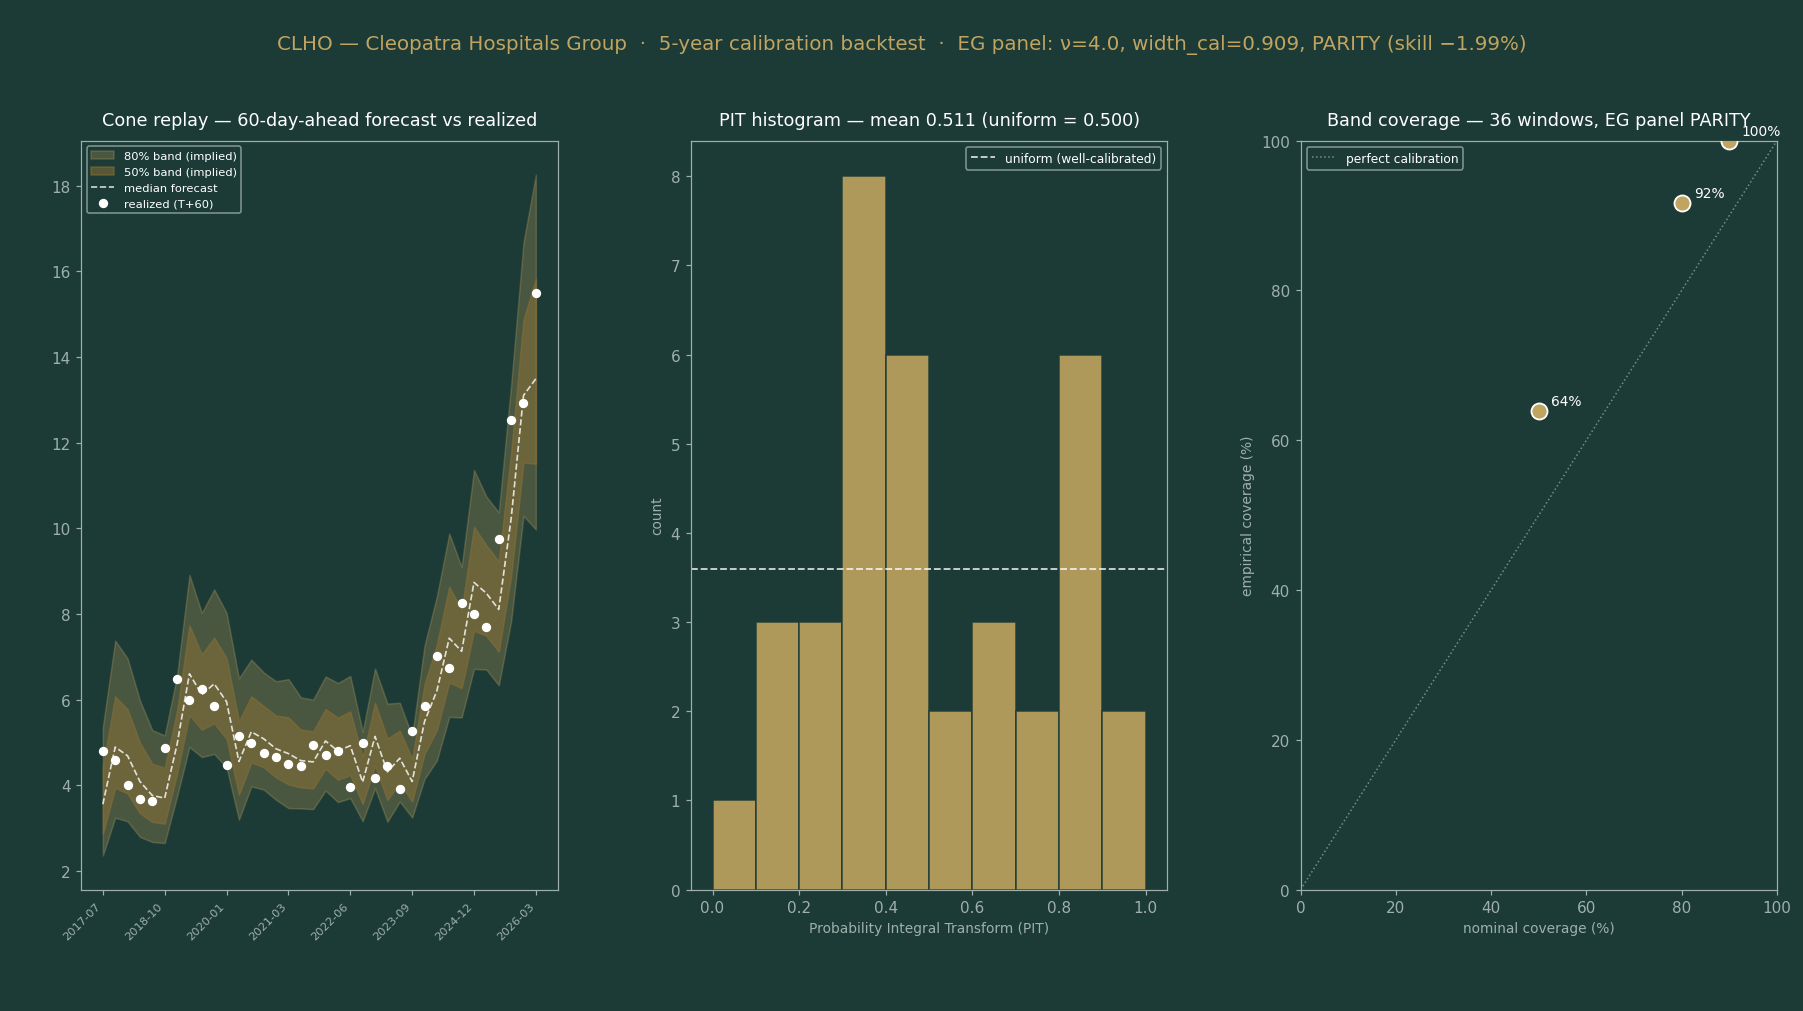
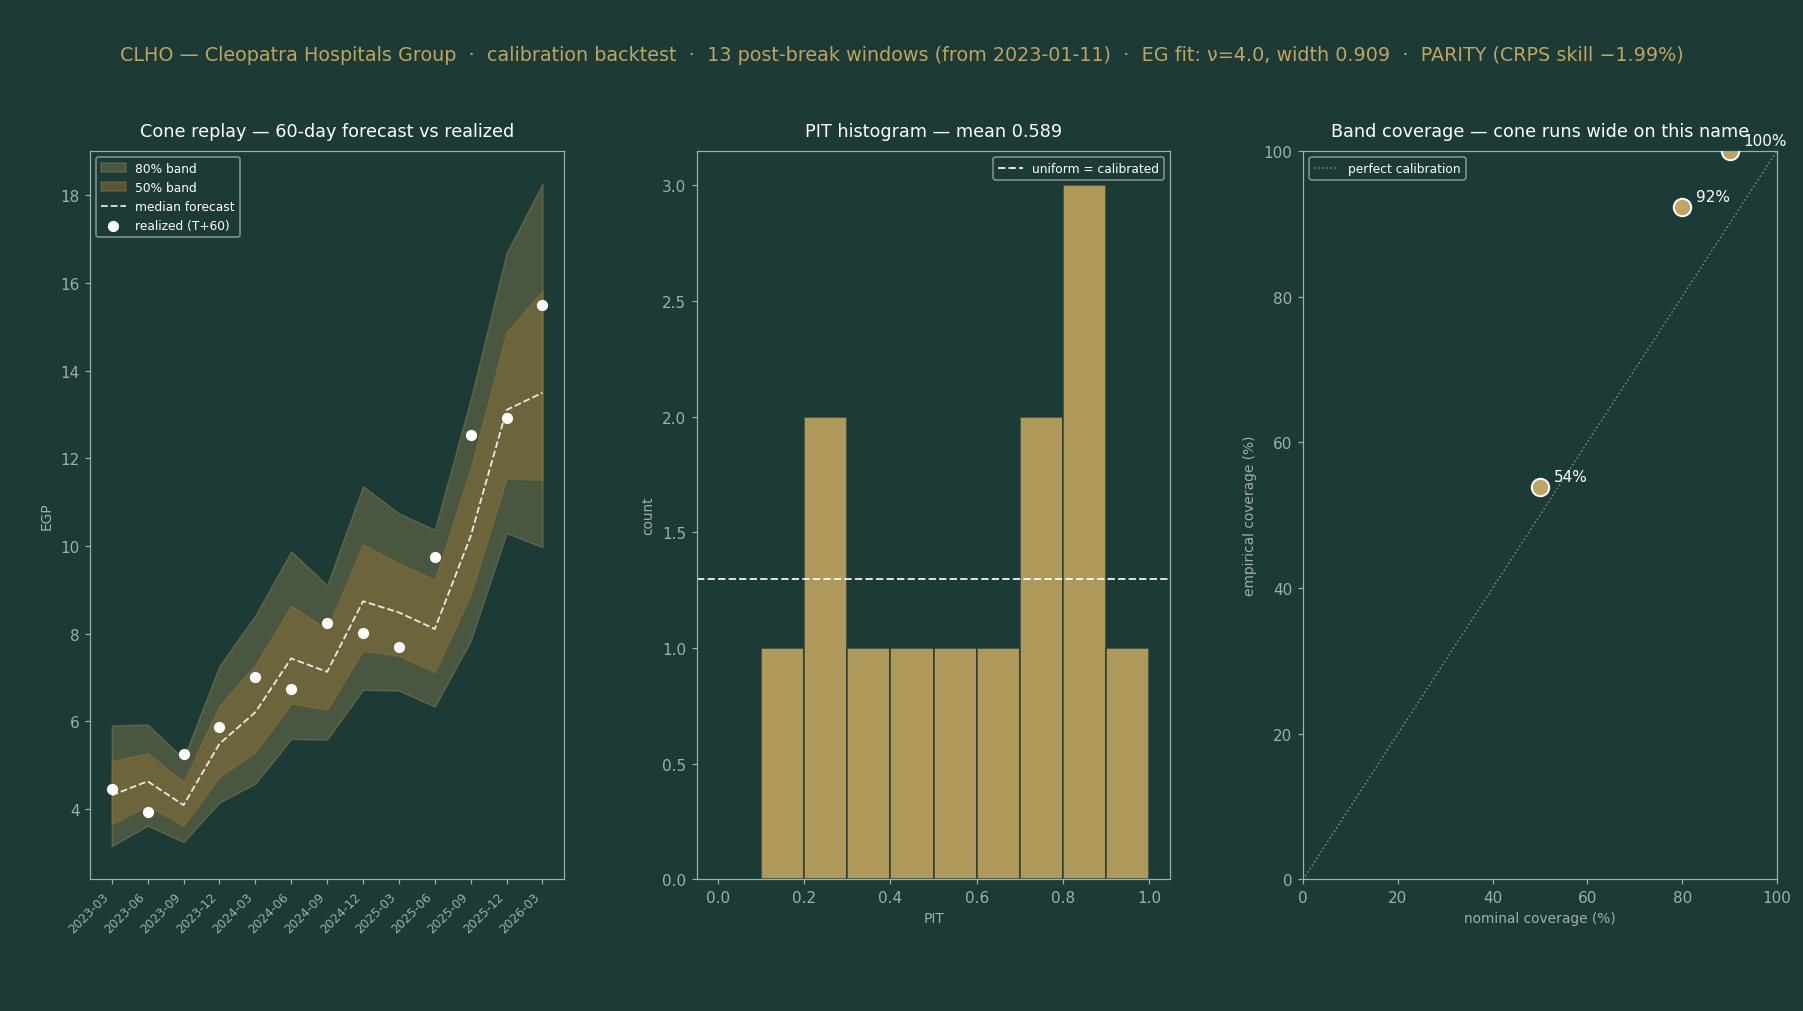
FIX: restore Egypt breaks= (I deleted it in 805a41d) + correct CLHO calibration to the 13 break-filtered windows
TWO ERRORS, BOTH MINE, BOTH FROM TODAY.

1. REGRESSION IN 805a41d: my str.replace() anchor when rewriting EGYPT's
   fit_meta spanned the line below it and silently deleted
     breaks=["2016-11-03", "2022-03-21", "2023-01-11"]
   apply_breaks() reads profile.breaks and is a documented no-op when the
   field is absent, so Egypt's break filter was OFF for any FUTURE refit --
   including the 03:00 UTC daily cron. The committed fit itself is UNAFFECTED:
   PR #4 ran on 64062fd, before the deletion, so nu=4.0 / cal=0.909 / CLHO
   PARITY -0.0199 / 377 windows were all computed WITH the filter correctly
   applied. The damage was purely forward-looking. Restored; every other
   market's breaks field verified intact (Egypt-only).

2. WRONG WINDOW COUNT PUBLISHED: the site said CLHO was scored on 36 windows
   (full history, 2017-2026) with coverage 0.64/0.92/1.00 and PIT 0.511.
   The engine actually scores 13 POST-BREAK windows (from 2023-01-11):
   coverage 0.54/0.92/1.00, PIT 0.589. I had both files locally
   (clho_backtest_all.csv = 36, clho_backtest_rows.csv = 13) and used the
   wrong one. coverage.js even read "36 post-break windows", which is a
   contradiction on its face. Calibration figure rebuilt from the 13 correct
   windows; data.js ledger note and coverage.js thesis restated.

Also retracting a claim I made in chat: the panel CSVs carrying pre-break
history is BY DESIGN, not a bug -- panel_refresh.py line 259 applies
[…]

diff --git a/assets/data.js b/assets/data.js
@@ -1990,7 +1990,7 @@ const LEDGER = [
   { instrument:"CLHO", asset_class:"equity", anchor_date:"2026-07-12", anchor_price:16.31, ccy:"EGP",
     horizon_label:"T+20", grade_date:"2026-08-09", cycle_no:1, reanchor_from:null,
     anchor_vol:0.3548, horizon_days:20,
-    note:"PARITY on the name\u2019s own fitted verdict, committed to engine/fitted_configs.json 13-Jul-2026 (PR #4): CLHO is a constituent of the 29-name Egypt panel (fitted nu=4.0, cone width 0.909; panel-level verdict PASS, scale-normalized CRPS skill +2.6%%, 90%% CI [+1.7%%, +3.6%%]). Name-level Step-0: 36 non-overlapping 60-session windows, 2017\u20132026, scored from the market\u2019s last structural break (2023-01-11) forward. Scale-normalized CRPS skill -2.0%% against a CARRY-ANCHORED random-walk benchmark \u2014 PARITY, meaning the cone is calibrated and market-panel validated, but this specific name shows no demonstrated single-name edge over the carry-anchored benchmark; this is the modal EGX verdict (15 of 29 panel names are PARITY, including names with skill as low as -4.4%%), not a failure. Coverage 50/80/90%% = 0.64/0.92/1.00; mean PIT 0.51 \u2014 well-centred. Carry = CBE main rate 19.50%% less CLHO\u2019s trailing dividend yield; the Egypt profile runs CARRY-ONLY (no signal, ablated off on evidence). Adding CLHO to the panel also moved CCAP\u2019s own verdict from PASS to BOUNDARY(PARITY-flagged) \u2014 disclosed for transparency, reviewed and merged by the analyst before this fit was committed. The cone is a 3-month object and is NEVER blended with the 12-month fundamental anchor. See study \u00a73 and the Calibration Ledger.",
+    note:"PARITY on the name\u2019s own fitted verdict, committed to engine/fitted_configs.json 13-Jul-2026 (PR #4): CLHO is a constituent of the 29-name Egypt panel (fitted nu=4.0, cone width 0.909; panel-level verdict PASS, scale-normalized CRPS skill +2.6%%, 90%% CI [+1.7%%, +3.6%%]). Name-level Step-0: 13 non-overlapping 60-session windows, scored from the market\u2019s last structural break (2023-01-11) forward \u2014 23 pre-break origins dropped, because Egypt devalued in Jan-2023 and calibrating on post-break windows only beats using all history out-of-sample, which is the adopted production rule. Scale-normalized CRPS skill -2.0%% against a CARRY-ANCHORED random-walk benchmark \u2014 PARITY, meaning the cone is calibrated and market-panel validated, but this specific name shows no demonstrated single-name edge over the carry-anchored benchmark; this is the modal EGX verdict (15 of 29 panel names are PARITY, including names with skill as low as -4.4%%), not a failure. Coverage 50/80/90%% = 0.54/0.92/1.00; mean PIT 0.59. The 90%% band contained every outcome, so the cone runs WIDE on this name \u2014 over-coverage, not mis-centring, which is exactly why it scores PARITY rather than PASS. Carry = CBE main rate 19.50%% less CLHO\u2019s trailing dividend yield; the Egypt profile runs CARRY-ONLY (no signal, ablated off on evidence). Adding CLHO to the panel also moved CCAP\u2019s own verdict from PASS to BOUNDARY(PARITY-flagged) \u2014 disclosed for transparency, reviewed and merged by the analyst before this fit was committed. The cone is a 3-month object and is NEVER blended with the 12-month fundamental anchor. See study \u00a73 and the Calibration Ledger.",
     p5:13.59, p25:15.46, p50:16.54, p75:17.71, p95:20.17,
     touch:{ "+5":60, "+10":35, "+15":20, "+20":12, "-5":50, "-10":25 },
     realized_close:null, realized_high:null, realized_low:null,
@@ -2000,7 +2000,7 @@ const LEDGER = [
   { instrument:"CLHO", asset_class:"equity", anchor_date:"2026-07-12", anchor_price:16.31, ccy:"EGP",
     horizon_label:"T+60", grade_date:"2026-10-04", cycle_no:1, reanchor_from:null,
     anchor_vol:0.3548, horizon_days:60,
-    note:"PARITY on the name\u2019s own fitted verdict, committed to engine/fitted_configs.json 13-Jul-2026 (PR #4): CLHO is a constituent of the 29-name Egypt panel (fitted nu=4.0, cone width 0.909; panel-level verdict PASS, scale-normalized CRPS skill +2.6%%, 90%% CI [+1.7%%, +3.6%%]). Name-level Step-0: 36 non-overlapping 60-session windows, 2017\u20132026, scored from the market\u2019s last structural break (2023-01-11) forward. Scale-normalized CRPS skill -2.0%% against a CARRY-ANCHORED random-walk benchmark \u2014 PARITY, meaning the cone is calibrated and market-panel validated, but this specific name shows no demonstrated single-name edge over the carry-anchored benchmark; this is the modal EGX verdict (15 of 29 panel names are PARITY, including names with skill as low as -4.4%%), not a failure. Coverage 50/80/90%% = 0.64/0.92/1.00; mean PIT 0.51 \u2014 well-centred. Carry = CBE main rate 19.50%% less CLHO\u2019s trailing dividend yield; the Egypt profile runs CARRY-ONLY (no signal, ablated off on evidence). Adding CLHO to the panel also moved CCAP\u2019s own verdict from PASS to BOUNDARY(PARITY-flagged) \u2014 disclosed for transparency, reviewed and merged by the analyst before this fit was committed. The cone is a 3-month object and is NEVER blended with the 12-month fundamental anchor. See study \u00a73 and the Calibration Ledger.",
+    note:"PARITY on the name\u2019s own fitted verdict, committed to engine/fitted_configs.json 13-Jul-2026 (PR #4): CLHO is a constituent of the 29-name Egypt panel (fitted nu=4.0, cone width 0.909; panel-level verdict PASS, scale-normalized CRPS skill +2.6%%, 90%% CI [+1.7%%, +3.6%%]). Name-level Step-0: 13 non-overlapping 60-session windows, scored from the market\u2019s last structural break (2023-01-11) forward \u2014 23 pre-break origins dropped, because Egypt devalued in Jan-2023 and calibrating on post-break windows only beats using all history out-of-sample, which is the adopted production rule. Scale-normalized CRPS skill -2.0%% against a CARRY-ANCHORED random-walk benchmark \u2014 PARITY, meaning the cone is calibrated and market-panel validated, but this specific name shows no demonstrated single-name edge over the carry-anchored benchmark; this is the modal EGX verdict (15 of 29 panel names are PARITY, including names with skill as low as -4.4%%), not a failure. Coverage 50/80/90%% = 0.54/0.92/1.00; mean PIT 0.59. The 90%% band contained every outcome, so the cone runs WIDE on this name \u2014 over-coverage, not mis-centring, which is exactly why it scores PARITY rather than PASS. Carry = CBE main rate 19.50%% less CLHO\u2019s trailing dividend yield; the Egypt profile runs CARRY-ONLY (no signal, ablated off on evidence). Adding CLHO to the panel also moved CCAP\u2019s own verdict from PASS to BOUNDARY(PARITY-flagged) \u2014 disclosed for transparency, reviewed and merged by the analyst before this fit was committed. The cone is a 3-month object and is NEVER blended with the 12-month fundamental anchor. See study \u00a73 and the Calibration Ledger.",
     p5:12.12, p25:15.13, p50:17.02, p75:19.15, p95:23.83,
     touch:{ "+5":79, "+10":62, "+15":47, "+20":36, "-5":65, "-10":43 },
     realized_close:null, realized_high:null, realized_low:null,

diff --git a/assets/coverage.js b/assets/coverage.js
@@ -7,7 +7,7 @@
 'use strict';
 
 const COVERAGE_EN = [
-  {tk:"CLHO",   code:"EGX:CLHO",   name:"Cleopatra Hospitals Group",      sector:"Healthcare",              sub:"Egypt\u2019s largest private hospital group, 7 hospitals + 5 polyclinics + Bedaya IVF, Greater Cairo", country:"Egypt",     cur:"EGP", fair:"9.21",    price:"16.31",    gap:"\u221244%",  date:"13 Jul 2026", url:"clho.html",    thesis:"A genuine growth story priced as if it were already a takeout. Bed capacity is expanding 50% by 2027 (880\u21921,320) and revenue is rebuilt bottom-up from disclosed volumes and prices \u2014 not assumed \u2014 reaching 2.07\u00d7 FY2028E vs FY2025, almost exactly management\u2019s own \u201cmore than double by 2028\u201d guidance. But at Egypt\u2019s cost of capital that growth is worth EGP 9.21 weighted-central, against a spot of 16.31. THIS RANGE WAS REBUILT UNDER EXTERNAL AUDIT: the first version capitalised terminal value directly, which silently required a 34.2% return on capital forever \u2014 far above anything CLHO has ever earned \u2014 and deducted minority interests at book value instead of what the minority stake is actually worth. Both are now fixed: terminal reinvestment is forced to what 5% growth actually costs at an 18% return (inside CLHO\u2019s realized 17\u201323% range), and the minority stake is valued as its own mini-SOTP on Cairo Specialized Hospital\u2019s disclosed economics. THE COST OF DEBT IS AUDITED, NOT ASSUMED: CLHO\u2019s own accounts show a 28.90% contractual loan rate against a 28.25% CBE corridor \u2014 a +65bp spread confirmed at two separate year-ends \u2014 and the debt book is 100% EGP with zero foreign-currency exposure. THE DISCOUNT RATE SLIDES: 25.15% today easing to a norm-built 17.87% terminal on the CBE\u2019s own calendar, with the sovereign default premium netted out of the risk-free rate rather than double-counted. THE GAP ITSELF IS THE FINDING: even the single most generous fundamental case (the DCF bull) reaches only 8.12, barely half of spot \u2014 the market is pricing something closer to a strategic-review or per-bed transaction outcome than standalone cash-flow generation, and this study cannot resolve which one is right. Flagged but not in the base case: a developing 2026-27 El Ni\u00f1o (96% NOAA probability) threatens a multi-year food-inflation shock that would keep the CBE from cutting at all. \u00a73 Monte Carlo: PARITY on this name\u2019s own fitted verdict (36 post-break windows, CRPS skill -2.0% vs a carry-anchored random walk) \u2014 calibrated and panel-validated, with no demonstrated single-name edge, which is the modal result across the Egypt panel."},
+  {tk:"CLHO",   code:"EGX:CLHO",   name:"Cleopatra Hospitals Group",      sector:"Healthcare",              sub:"Egypt\u2019s largest private hospital group, 7 hospitals + 5 polyclinics + Bedaya IVF, Greater Cairo", country:"Egypt",     cur:"EGP", fair:"9.21",    price:"16.31",    gap:"\u221244%",  date:"13 Jul 2026", url:"clho.html",    thesis:"A genuine growth story priced as if it were already a takeout. Bed capacity is expanding 50% by 2027 (880\u21921,320) and revenue is rebuilt bottom-up from disclosed volumes and prices \u2014 not assumed \u2014 reaching 2.07\u00d7 FY2028E vs FY2025, almost exactly management\u2019s own \u201cmore than double by 2028\u201d guidance. But at Egypt\u2019s cost of capital that growth is worth EGP 9.21 weighted-central, against a spot of 16.31. THIS RANGE WAS REBUILT UNDER EXTERNAL AUDIT: the first version capitalised terminal value directly, which silently required a 34.2% return on capital forever \u2014 far above anything CLHO has ever earned \u2014 and deducted minority interests at book value instead of what the minority stake is actually worth. Both are now fixed: terminal reinvestment is forced to what 5% growth actually costs at an 18% return (inside CLHO\u2019s realized 17\u201323% range), and the minority stake is valued as its own mini-SOTP on Cairo Specialized Hospital\u2019s disclosed economics. THE COST OF DEBT IS AUDITED, NOT ASSUMED: CLHO\u2019s own accounts show a 28.90% contractual loan rate against a 28.25% CBE corridor \u2014 a +65bp spread confirmed at two separate year-ends \u2014 and the debt book is 100% EGP with zero foreign-currency exposure. THE DISCOUNT RATE SLIDES: 25.15% today easing to a norm-built 17.87% terminal on the CBE\u2019s own calendar, with the sovereign default premium netted out of the risk-free rate rather than double-counted. THE GAP ITSELF IS THE FINDING: even the single most generous fundamental case (the DCF bull) reaches only 8.12, barely half of spot \u2014 the market is pricing something closer to a strategic-review or per-bed transaction outcome than standalone cash-flow generation, and this study cannot resolve which one is right. Flagged but not in the base case: a developing 2026-27 El Ni\u00f1o (96% NOAA probability) threatens a multi-year food-inflation shock that would keep the CBE from cutting at all. \u00a73 Monte Carlo: PARITY on this name\u2019s own fitted verdict (13 post-break windows, CRPS skill -2.0% vs a carry-anchored random walk) \u2014 calibrated and panel-validated, with no demonstrated single-name edge, which is the modal result across the Egypt panel."},
   {tk:"RMDA",   code:"EGX:RMDA",    name:"Rameda Pharmaceuticals",         sector:"Healthcare",              sub:"Branded-generic pharma manufacturer, 3 plants in 6th of October", country:"Egypt",     cur:"EGP", fair:"2.77",    price:"5.00",    gap:"\u221245%",  date:"13 Jul 2026", url:"rmda.html",    thesis:"A compounding pharmaceutical engine bolted to a punishing Egyptian cost of capital \u2014 and the two lenses disagree so violently that the disagreement IS the finding. Discounted at Egypt\u2019s SOURCED cost of capital the cash flows are worth EGP 1.73; priced on its own trading multiples the same engine is worth 3.65\u20134.40. The market pays 5.00. WHY REVENUE DOUBLED, AND WHY IT WILL NOT DOUBLE AGAIN: FY23\u2192FY25 revenue went +113%, but that was three ONE-OFFS stacked on a real launch engine \u2014 the EDA pricing catch-up (now ~82% complete), a shortage-driven volume spike (2Q25 private units +56% because rivals could not supply), and export resumption from literally ZERO (Iraq\u2019s suspension made FY24 exports nil). The 1Q26 print proves the regime is over: revenue +23%, but volumes ex-toll only +7% and PRIVATE VOLUMES \u22125%, with management saying growth came with limited reliance on pricing. So the forward path tapers to +9%, it does not re-double. THE COST OF DEBT WAS AUDITED, NOT ASSUMED: the book is 100% EGP (all 11 bank facilities in EGP; the FX exposure sits in import payables, not debt \u2014 there is no cheap-dollar blend to be had), and the rate Rameda actually PAYS is 24.0% annualised in 1Q26, not the 20.5% midpoint of the disclosed range \u2014 a 350bp understatement we caught in our own model and corrected. THE DISCOUNT RATE SLIDES RATHER THAN SITTING FLAT: 26.6% today easing to a norm-built 18.8% terminal on the same CBE calendar used for the interest forecast \u2014 one price of time per date, so the terminal value never gets quietly discounted at a rate the explicit years are denied. THE CRUX, IN REAL UNITS: every 100bp off the facility cost is EGP 21mn of pre-tax profit, and at a flat ~12.5% cost of capital these same cash flows are worth spot. Rameda is a pharma manufacturer wearing the costume of a leveraged bet on Egyptian monetary policy. \u00a73 Monte Carlo PASSES its calibration gate on this name (13 post-break windows, CRPS skill +2.8% vs a carry-anchored random walk, bootstrap CI entirely above zero and robust at every block size)."},
   {tk:"DEWA", code:"DFM:DEWA", name:"DEWA (Dubai Electricity and Water Authority)", sector:"Utilities", sub:"Electricity & water monopoly utility, Emirate of Dubai", country:"UAE", cur:"AED", fair:"3.32", price:"2.79", gap:"+19%", date:"12 Jul 2026", url:"dewa.html", thesis:"Dubai\u2019s exclusive electricity and water utility \u2014 82% government-owned, world-record operating metrics (2% electricity losses, 4% water losses), and a legal monopoly protected through at least 2030. The dividend-discount lens (35% weight) anchors on the AED 6.2bn/yr policy floor through October 2027; a 5-year FCFF DCF ceiling (20%, 87% terminal value, disclosed), relative EV/EBITDA against GCC utility peers (25%) and a justified price-to-book off the regulated return spread (20%) complete the picture. Weighted central AED 3.32 (+19%). The crux is what the board signals about dividend growth after October 2027 \u2014 the market currently implies perpetual growth of just 1.3\u20132.3%, below local inflation. \u00a73 Monte Carlo is BOUNDARY (PARITY-flagged): DEWA is not yet a panel constituent, and a diagnostic replay under the production 14-name UAE fit is over-covered rather than mis-centred \u2014 calibrated, no single-name edge claimed."},
   {tk:"LULU", code:"ADX:LULU", name:"Lulu Retail Holdings", sector:"Consumer Staples", sub:"The GCC's largest modern grocer — 277 stores across all six Gulf states, 13.5% share, #1 in four of them", country:"UAE", cur:"AED", fair:"1.28", price:"0.94", gap:"+36%", date:"12 Jul 2026", url:"lulu.html", thesis:"The GCC's largest grocer — 277 stores, 1.4m sqm, #1 in four of its six countries — trading 54% below its Nov-2024 IPO. The market pays AED 0.94; four lenses put it at 1.28 (+36%). But the number that matters is one the company does not report, so we built it: SALES DENSITY, the revenue each square metre of shop floor produces. It fell 1.4% in FY2025 and roughly 8% in Q1-2026. Lulu is adding space into falling productivity. THE ENGINE: operating cost tracks SPACE; revenue tracks SPACE x DENSITY. So the EBITDA margin is flat only when density growth equals mature-store cost inflation — a break-even that is DERIVED, not assumed. It reproduces the Q1 margin bridge with nothing modelled at all: 10.23% to 9.50%, of which -65bp is OPERATING DELEVERAGE (revenue -2.9%, cash opex +1.1%, both disclosed) and only -7bp is gross margin. The margin is not a lever management pulls; it falls out of the density. AND THE SHOCK LOOKS TRANSIENT: management says January and February were in line and the slowdown was in MARCH — in Electrical and Lifestyle, not food. Consumer Packaged Goods and Fresh Food both GREW. That is a war-driven deferral of discretionary spend, not a grocery business losing its customers. TWO MORE FINDINGS. SAUDI: we rebuilt segment floor space from the company's own format split and its disclosed 9,200 sqm average hypermarket (it reconstructs the disclosed estate to 0.6%), and Saudi sells US$4,489 per sqm against Qatar's US$9,027. Its stores are not small — 46% are hypermarkets, the same share as the group. They are UNPRODUCTIVE. THE DIVIDEND: 7 fils is 96% of EARNINGS but 1.33x covered by CASH, because depreciation is nearly three times capex — the leases ARE the capex. A cash-covered 7.45% yield is a very different proposition from an uncovered one. THE HONEST CAVEAT: at 7.15x EV/EBITDAaL (after lease payments) Lulu is NOT cheap on an absolute basis. It is cheap RELATIVE to how its peers are quoted. Two different claims, and we make only the second. Falsifier, dated: the H1 print on 19 August 2026 — and the number to read is not the headline, it is whether the weakness has spread INTO FOOD. REVISION r1 (13-Jul-2026) — AND THE BIGGEST CORRECTION GOES AGAINST US: the earlier version named density as THE crux and claimed a -6% density year puts fair value at the market price. Our own grid says the central is 1.12 there, still 19% above spot — and holding everything else at base, DENSITY ALONE NEVER REACHES 0.94 at any plausible level. So the market is pricing lost density AND a terminal de-rating AND a higher cost of capital AND a dividend cut. The crux was overclaimed and we are saying so. Also corrected: the beta diagnostics (the five printed statistics were mutually impossible), a circular debt cross-check (withdrawn), the dividend cover (now charges working capital: 1.40x -> 1.33x), FY2024 stores (247 -> 250), and Pillar Two / UAE DMTT — a live 15% tax floor never previously mentioned. Full correction log in the study."},

diff --git a/engine/market_profiles.py b/engine/market_profiles.py
@@ -141,6 +141,7 @@ EGYPT = MarketProfile(
         "positive, CI[0.006,0.207] -- straddles the boundary, not a sign flip), which is why the "
         "materiality gate correctly stopped for review rather than auto-committing. Market panel: "
         "PASS +0.0259 CI[0.017,0.036], materially the same as pre-CLHO."),
+    breaks=["2016-11-03", "2022-03-21", "2023-01-11"],
     notes=("Literature: no EGX momentum; overreaction/short-term reversal supported "
            "(EGX event studies; Kuwait 1m reversal ~3.1%/mo t≈4.4 as GCC analogue). "
            "Signal sign/IC re-estimated on the 6-name pooled panel each cycle."),